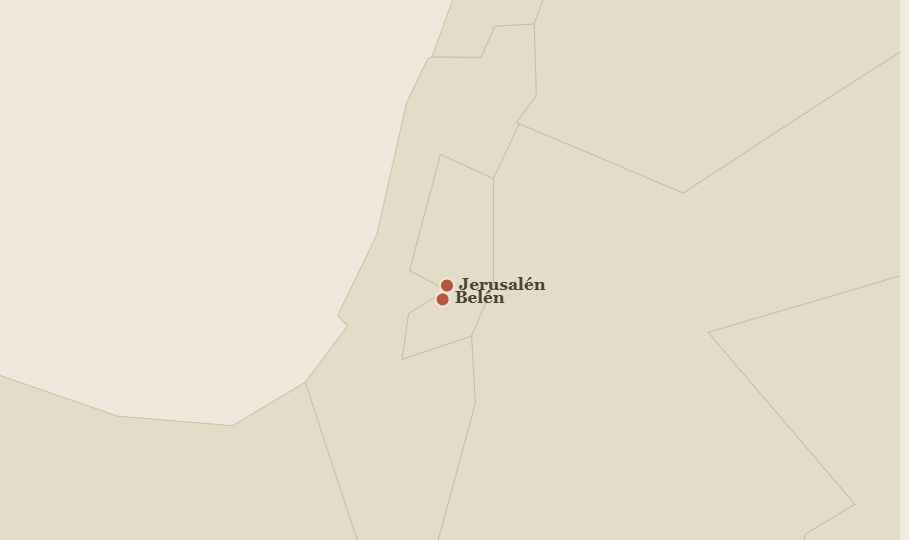
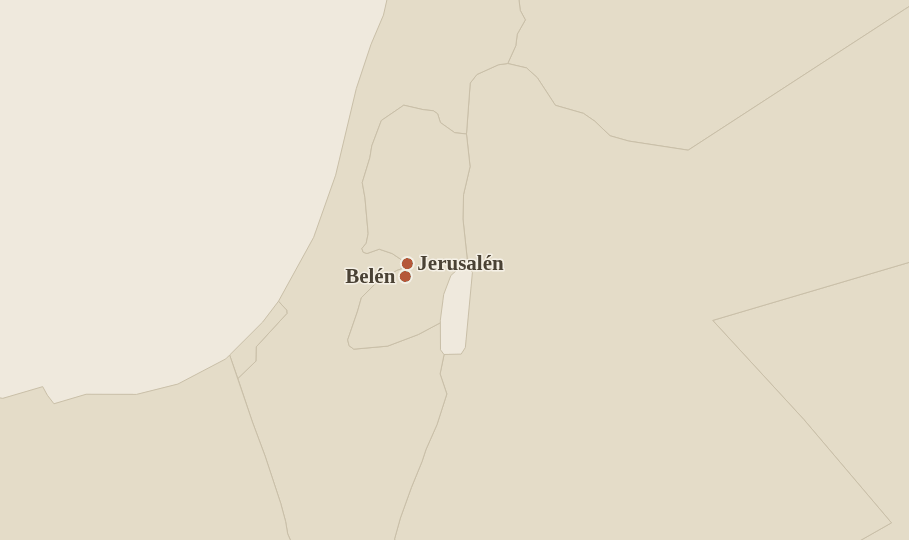
Unifica el formato de los mapas y lo extiende a las 47 fichas
Hasta ahora convivían tres formatos. Las 18 tarjetas originales no tenían
especificación de mapa, así que su PNG no se podía rehacer ni abrir en el
editor; de esas, 15 se habían subido por el panel en algún momento y eran
JPEG con nombre .png. Y el recorte de un mapa subido a mano era 4:3, mientras
que el generador dibuja 5:3.

El marco pasa a estar escrito una sola vez, en LIENZO (admin/config.js), de
donde salen tanto el lienzo que dibuja admin/mapa.js como la proporción a la
que se recorta una imagen subida. Los 47 mapas son ya PNG de paleta 909x540.

Las 18 fichas que faltaban tienen su especificación. Los lugares no se han
inventado: se localizó cada marcador en los PNG originales y se invirtió la
proyección, lo que además saca cuatro sitios que no estaban en el nomenclátor
(Ararat, Efraín, Monte Carmelo y el río Jordán). Regenerarlos arregla de paso
el mapa de Noé, donde la etiqueta de Ararat salía cortada por arriba.

Con el encuadre ya centrado, ninguna ficha necesita mover el recorte con
mapPos. La única que lo hacía era Abel, que no tiene marcadores: ahora el
encuadre lo dice su propio mapa, con la clave nueva `centro`.

Además:

- dibujar() ignoraba spec.zoom cuando calculaba el encuadre por su cuenta;
  solo funcionaba si quien llamaba le pasaba el encuadre ya hecho.
- tools/comprobar-mapas.mjs revisa las 47 sin abrir el navegador: que toda
  ficha lleve especificación, que los lugares existan, que el PNG tenga el
[…]

diff --git a/admin/mapa.js b/admin/mapa.js
@@ -7,7 +7,10 @@
 // aquellos PNG y sale con menos de 0,25 px de error. Los colores están
 // muestreados de los mismos ficheros.
 
-export const LIENZO = { ancho: 909, alto: 540 };
+// El lienzo se define en config.js, junto al recorte de las imágenes subidas a
+// mano, para que un mapa dibujado y otro subido tengan el mismo marco.
+import { LIENZO } from './config.js';
+export { LIENZO };
 
 export const PALETA = {
   mar: '#efe9dd',
@@ -53,19 +56,24 @@ export function deMercator(x, y) {
  * coordenadas Mercator; `proyectar` los convierte en píxeles.
  *
  * @param {{lon:number, lat:number, label?:string}[]} lugares
- * @param {{margen?:number, medir?:(texto:string)=>number}} opciones
+ * @param {{margen?:number, zoom?:number, centro?:{lon:number,lat:number},
+ *          medir?:(texto:string)=>number}} opciones
  */
 export function encuadrar(lugares, opciones = {}) {
   const margen = opciones.margen ?? 1.35;
   const medir = opciones.medir || (t => t.length * 10);
+  const fijo = opciones.centro ? aMercator(opciones.centro.lon, opciones.centro.lat) : null;
   if (!lugares.length) {
-    return { k: 1048.5, cx: rad(36.27), cy: aMercator(0, 27.71).y };
+    // Sin marcadores no hay nada que encuadrar: manda lo que diga la ficha, y
+    // si no dice nada, la vista ancha de siempre.
+    const k = (opciones.zoom ? opciones.zoom * 180 / Math.PI : 1048.5);
+    return fijo ? { k, cx: fijo.x, cy: fijo.y } : { k, cx: rad(36.27), cy: aMercator(0, 27.71).y };
   }
 
   const puntos = lugares.map(l => ({ ...aMercator(l.lon, l.lat), label: l.label || '' }));
   const xs = puntos.map(p => p.x), ys = puntos.map(p => p.y);
-  const cx = (Math.min(...xs) + Math.max(...xs)) / 2;
-  const cy = (Math.min(...ys) + Math.max(...ys)) / 2;
+  const cx = fijo ? fijo.x : (Math.min(...xs) + Math.max(...xs)) / 2;
+  const cy = fijo ? fijo.y : (Math.min(...ys) + Math.max(...ys)) / 2;
   const anchoSeguro = SEGURO.x1 - SEGURO.x0;
   const altoSeguro = SEGURO.y1 - SEGURO.y0;
 
@@ -74,7 +82,7 @@ export function encuadrar(lugares, opciones = {}) {
   if (opciones.zoom) {
     const k = opciones.zoom * 180 / Math.PI;
     const colaMedia = puntos.reduce((s, p) => s + ETIQUETA.separacion + medir(p.label), 0) / puntos.length;
-    return { k, cx: cx + (colaMedia / 2) / k, cy };
+    return { k, cx: fijo ? cx : cx + (colaMedia / 2) / k, cy };
   }
 
   // Los puntos ocupan un rectángulo, y encima cada etiqueta añade su ancho por
@@ -93,7 +101,7 @@ export function encuadrar(lugares, opciones = {}) {
 
   // Como las etiquetas solo crecen hacia la derecha, el conjunto se ve
   // descentrado si no se corre el encuadre media etiqueta.
-  return { k: Math.max(k, MIN_PX_POR_GRADO * 180 / Math.PI), cx: cx + (cola / 2) / k, cy };
+  return { k: Math.max(k, MIN_PX_POR_GRADO * 180 / Math.PI), cx: fijo ? cx : cx + (cola / 2) / k, cy };
 }
 
 export function proyectar(encuadre, lon, lat) {
@@ -109,12 +117,13 @@ export function proyectar(encuadre, lon, lat) {
  *
  * @param {CanvasRenderingContext2D} ctx
  * @param {object} geo            {paises, lagos} tal y como salen de data/geo/
- * @param {object} spec           {lugares:[{lon,lat,label}], ruta:boolean, curva?:number}
+ * @param {object} spec           {lugares:[{lon,lat,label}], ruta?, curva?, zoom?, centro?}
  * @param {object} [encuadre]     el de `encuadrar` si ya se calculó
  */
 export function dibujar(ctx, geo, spec, encuadre) {
   const lugares = spec.lugares || [];
-  const marco = encuadre || encuadrar(lugares, { medir: t => medirCon(ctx, t) });
+  const marco = encuadre
+    || encuadrar(lugares, { zoom: spec.zoom, centro: spec.centro, medir: t => medirCon(ctx, t) });
 
   ctx.save();
   ctx.fillStyle = PALETA.mar;

diff --git a/tools/render.html b/tools/render.html
@@ -29,7 +29,7 @@ window.dibujarPersonaje = async id => {
   if (!p) throw new Error(`no existe la tarjeta ${id}`);
   if (!p.map) throw new Error(`la tarjeta ${id} no tiene especificación de mapa`);
   const lugares = resolverLugares(p.map, nomenclator);
-  const marco = p.map.encuadre || encuadrar(lugares, { zoom: p.map.zoom, medir });
+  const marco = p.map.encuadre || encuadrar(lugares, { zoom: p.map.zoom, centro: p.map.centro, medir });
   dibujar(ctx, geo, { lugares, ruta: !!p.map.ruta, curva: p.map.curva }, marco);
   estado.textContent = id;
   return base64(await aPngIndexado(ctx));
@@ -38,7 +38,8 @@ window.dibujarPersonaje = async id => {
 // Sirve para comprobar el renderizador contra los mapas antiguos.
 window.dibujarSpec = async (spec, encuadre) => {
   const lugares = resolverLugares(spec, nomenclator);
-  dibujar(ctx, geo, { ...spec, lugares }, encuadre || encuadrar(lugares, { medir }));
+  dibujar(ctx, geo, { ...spec, lugares },
+    encuadre || encuadrar(lugares, { zoom: spec.zoom, centro: spec.centro, medir }));
   return base64(await aPngIndexado(ctx));
 };
 

diff --git a/admin/config.js b/admin/config.js
@@ -23,10 +23,15 @@ export const PATHS = {
   assets: 'assets',
 };
 
+// El marco de los mapas, en un solo sitio. De aquí sale tanto el lienzo que
+// dibuja `admin/mapa.js` como la proporción a la que se recorta un mapa subido
+// a mano, para que los dos caminos den siempre la misma imagen.
+export const LIENZO = { ancho: 909, alto: 540 };
+
 // Límites al reducir las imágenes en el navegador antes de subirlas.
 export const IMAGES = {
   portrait: { maxW: 800, maxH: 1067, quality: 0.82, ext: 'jpg', mime: 'image/jpeg' },
-  map: { maxW: 1200, maxH: 900, quality: 0.85, ext: 'jpg', mime: 'image/jpeg' },
+  map: { maxW: LIENZO.ancho, maxH: LIENZO.alto, quality: 0.85, ext: 'jpg', mime: 'image/jpeg' },
   // Aviso (no bloqueo) si un fichero ya reducido sigue pesando más que esto.
   warnBytes: 400 * 1024,
 };

diff --git a/admin/editor-mapa.js b/admin/editor-mapa.js
@@ -52,7 +52,7 @@ export async function abrirEditorDeMapa(personaje) {
       aviso.textContent = err.message;
       return;
     }
-    const marco = encuadrar(resueltos, { zoom: spec.zoom, medir });
+    const marco = encuadrar(resueltos, { zoom: spec.zoom, centro: spec.centro, medir });
     dibujar(ctx, geo, { lugares: resueltos, ruta: !!spec.ruta, curva: spec.curva }, marco);
     aviso.textContent = resueltos.length
       ? `${resueltos.length} lugar${resueltos.length > 1 ? 'es' : ''} · ${Math.round(LIENZO.ancho / (marco.k * Math.PI / 180))}° de ancho`

diff --git a/admin/images.js b/admin/images.js
@@ -2,7 +2,7 @@
 //
 // Dos motivos. Uno, el peso: sin esto, una foto de 6 MB recién sacada del móvil
 // se quedaría para siempre en el historial del repositorio. Dos, el encuadre:
-// el mazo enseña los retratos en 3:4 y los mapas en 4:3, y una foto que no
+// el mazo enseña los retratos en 3:4 y los mapas en 5:3, y una foto que no
 // venga así la recorta el navegador por el centro, que es justo donde no suele
 // estar lo que interesa. Aquí se decide el recorte y lo que se sube ya está
 // encuadrado.

diff --git a/admin/encuadre.js b/admin/encuadre.js
@@ -12,7 +12,7 @@ const LADO = 360;   // el lado largo del marco, en píxeles de pantalla
 
 const ROTULOS = {
   portrait: { titulo: 'Encuadrar el retrato', marco: 'Así se ve en la tarjeta · vertical 3:4' },
-  map: { titulo: 'Encuadrar el mapa', marco: 'Así se ve en el reverso · apaisado 4:3' },
+  map: { titulo: 'Encuadrar el mapa', marco: 'Así se ve en el reverso · apaisado 5:3' },
 };
 
 /**

diff --git a/admin/app.js b/admin/app.js
@@ -821,7 +821,7 @@ function campoImagen(c, tipo, pintarPrevia) {
 
   pintar();
   return h('div', { class: 'campo-grupo' },
-    h('span', { class: 'label' }, esRetrato ? 'Retrato · vertical 3:4' : 'Mapa · apaisado 4:3'),
+    h('span', { class: 'label' }, esRetrato ? 'Retrato · vertical 3:4' : 'Mapa · apaisado 5:3'),
     zona, entrada);
 }
 

diff --git a/docs/panel.md b/docs/panel.md
@@ -48,20 +48,27 @@ retrato y su mapa si no los usa nadie más.
 ## Las imágenes
 
 Se suben desde el propio formulario. Al elegir el fichero se abre el **encuadre**:
-la foto dentro del marco de la tarjeta —vertical 3:4 el retrato, apaisado 4:3 el
+la foto dentro del marco de la tarjeta —vertical 3:4 el retrato, apaisado 5:3 el
 mapa—, que se arrastra y se acerca con la barra hasta que se ve lo que tiene que
 verse. Lo que se guarda ya está recortado, así que en el mazo se ve exactamente eso;
 no hay que ajustar nada después.
+
+El marco del mapa es el mismo que dibuja el generador, así que un mapa subido a mano
+y uno dibujado aquí se recortan igual en la tarjeta. Está escrito una sola vez, en
+`LIENZO` (`admin/config.js`).
 
 **Reencuadrar** vuelve a abrir ese cuadro para una imagen que ya está puesta. Si se
 subió en esta misma sesión se recorta sobre el original, sin perder calidad; si viene
 de una publicación anterior se recorta sobre lo que hay en la web, que ya venía
 reducido.
 
-Al recortar también se reduce (retrato hasta 800 px de ancho, mapa hasta 1200) y se
+Al recortar también se reduce (retrato hasta 800 px de ancho, mapa hasta 909) y se
 guarda en JPEG. Sin eso, una foto de 6 MB del móvil se quedaría para siempre en el
 historial del repositorio. Nunca se agranda: si el recorte da menos píxeles que el
 límite, el fichero sale más pequeño y el cuadro lo avisa.
+
+Los mapas dibujados no pasan por aquí: salen ya con el tamaño exacto y en PNG de
+paleta, que para un mapa de pocos colores pesa menos que el JPEG y no lo emborrona.
 
 ## El orden del mazo
 
@@ -96,16 +103,36 @@ Al aceptar, el mapa entra en el borrador como una imagen más y se publica con e
 resto. Los lugares elegidos se guardan en la tarjeta (campo `map`), así que el mapa
 se puede volver a abrir y retocar más adelante sin empezar de cero.
 
+Las 47 tarjetas lo llevan, incluidas las 18 primeras, cuyos mapas se dibujaron a mano
+antes de que existiera todo esto: se midió dónde caía cada marcador en aquellos PNG
+para recuperar los lugares. Ninguna ficha se queda fuera.
+
+### Qué puede decir el campo `map`
+
+| Clave | Para qué |
+|---|---|
+| `lugares` | los sitios, por su id en `data/lugares.json`, en el orden del viaje. También vale `{ "label": …, "lon": …, "lat": … }` para uno suelto |
+| `ruta` | `true` traza la línea de puntos que los une |
+| `curva` | cuánto se arquea esa línea; sin ella, dos lugares se unen en recta |
+| `zoom` | píxeles por grado, en vez del encuadre automático |
+| `centro` | `{ "lon": …, "lat": … }` para mirar a un sitio concreto, aunque no haya marcador allí |
+
+`zoom` y `centro` son la salida para los mapas que el encuadre automático no puede
+resolver: uno solo, en mitad del desierto, o ninguno.
+
 Para rehacerlos todos de golpe desde la consola, sin abrir el panel:
 
 ```
 node tools/generar-mapas.mjs            # solo los que falten
 node tools/generar-mapas.mjs --todas    # todos otra vez
+node tools/comprobar-mapas.mjs          # revisarlos sin dibujar nada
 ```
 
 Dibuja con el mismo código que el panel, dentro de un Chromium sin ventana. Si el
 navegador no está en `/opt/pw-browsers/chromium`, se le indica con la variable
-`CHROMIUM`.
+`CHROMIUM`. La comprobación no necesita navegador: mira que toda ficha lleve su
+especificación, que los lugares existan, que el PNG tenga el marco de siempre y que
+ningún marcador se salga de lo que la tarjeta enseña.
 
 ## Los datos
 

diff --git a/README.md b/README.md
@@ -1,6 +1,6 @@
 # Personajes de la Biblia
 
-Un mazo de tarjetas para la **noche de adoración en familia**: 18 personajes bíblicos
+Un mazo de tarjetas para la **noche de adoración en familia**: 47 personajes bíblicos
 que se pueden hojear de uno en uno o ver en cuadrícula, con su mapa, los pasajes donde
 aparecen y su lugar en la línea del tiempo.
 
@@ -18,12 +18,13 @@ compilación: se abre `index.html` y funciona.
   4026 a. e. c. y 100 e. c.
 - **Modo repaso**: oculta los nombres para adivinar quién es antes de darle la vuelta.
 - **Filtro por eras** y barajado.
-- **Retratos encuadrados**: la foto se recorta en 3:4 al subirla, desde el panel, y
-  la tarjeta la enseña entera. El encuadre se decide una vez y lo ve todo el mundo.
+- **Imágenes encuadradas**: al subirla desde el panel, la foto se recorta al marco de
+  la tarjeta —3:4 el retrato, 5:3 el mapa— y la tarjeta la enseña entera. El encuadre
+  se decide una vez y lo ve todo el mundo.
 - **Panel de administración** para añadir, editar y ocultar tarjetas sin tocar el código.
 
 <p align="center">
-  <img src="docs/capturas/mazo-cuadricula.png" width="620" alt="Vista de cuadrícula con los 18 personajes">
+  <img src="docs/capturas/mazo-cuadricula.png" width="620" alt="Vista de cuadrícula con los personajes">
   <img src="docs/capturas/mazo-movil.png" width="200" alt="El mazo en un móvil">
 </p>
 
@@ -73,7 +74,20 @@ panel, o todos de una vez con `node tools/generar-mapas.mjs`, que dibuja con el 
 código dentro de un Chromium sin ventana. Los detalles, en
 [`docs/panel.md`](docs/panel.md).
 
-Los 18 mapas originales, hechos a mano en Claude Design, se han dejado como estaban.
+Las 47 tarjetas llevan esa especificación, así que **cualquier mapa se puede rehacer o
+retocar** sin partir de cero, y todos salen con el mismo marco: PNG de paleta,
+909 × 540. Los 18 primeros se dibujaron a mano en Claude Design; se midieron marcador
+a marcador para deducir dónde caía cada lugar, y ahora se generan como los demás.
+
+Para revisarlos sin volver a dibujarlos:
+
+```
+node tools/comprobar-mapas.mjs
+```
+
+Comprueba que toda ficha lleve su especificación, que los lugares que nombra existan
+en el nomenclátor, que el PNG tenga el marco de siempre y que ningún marcador se
+salga de la parte de la imagen que la tarjeta llega a enseñar.
 
 ## Añadir o editar tarjetas
 
